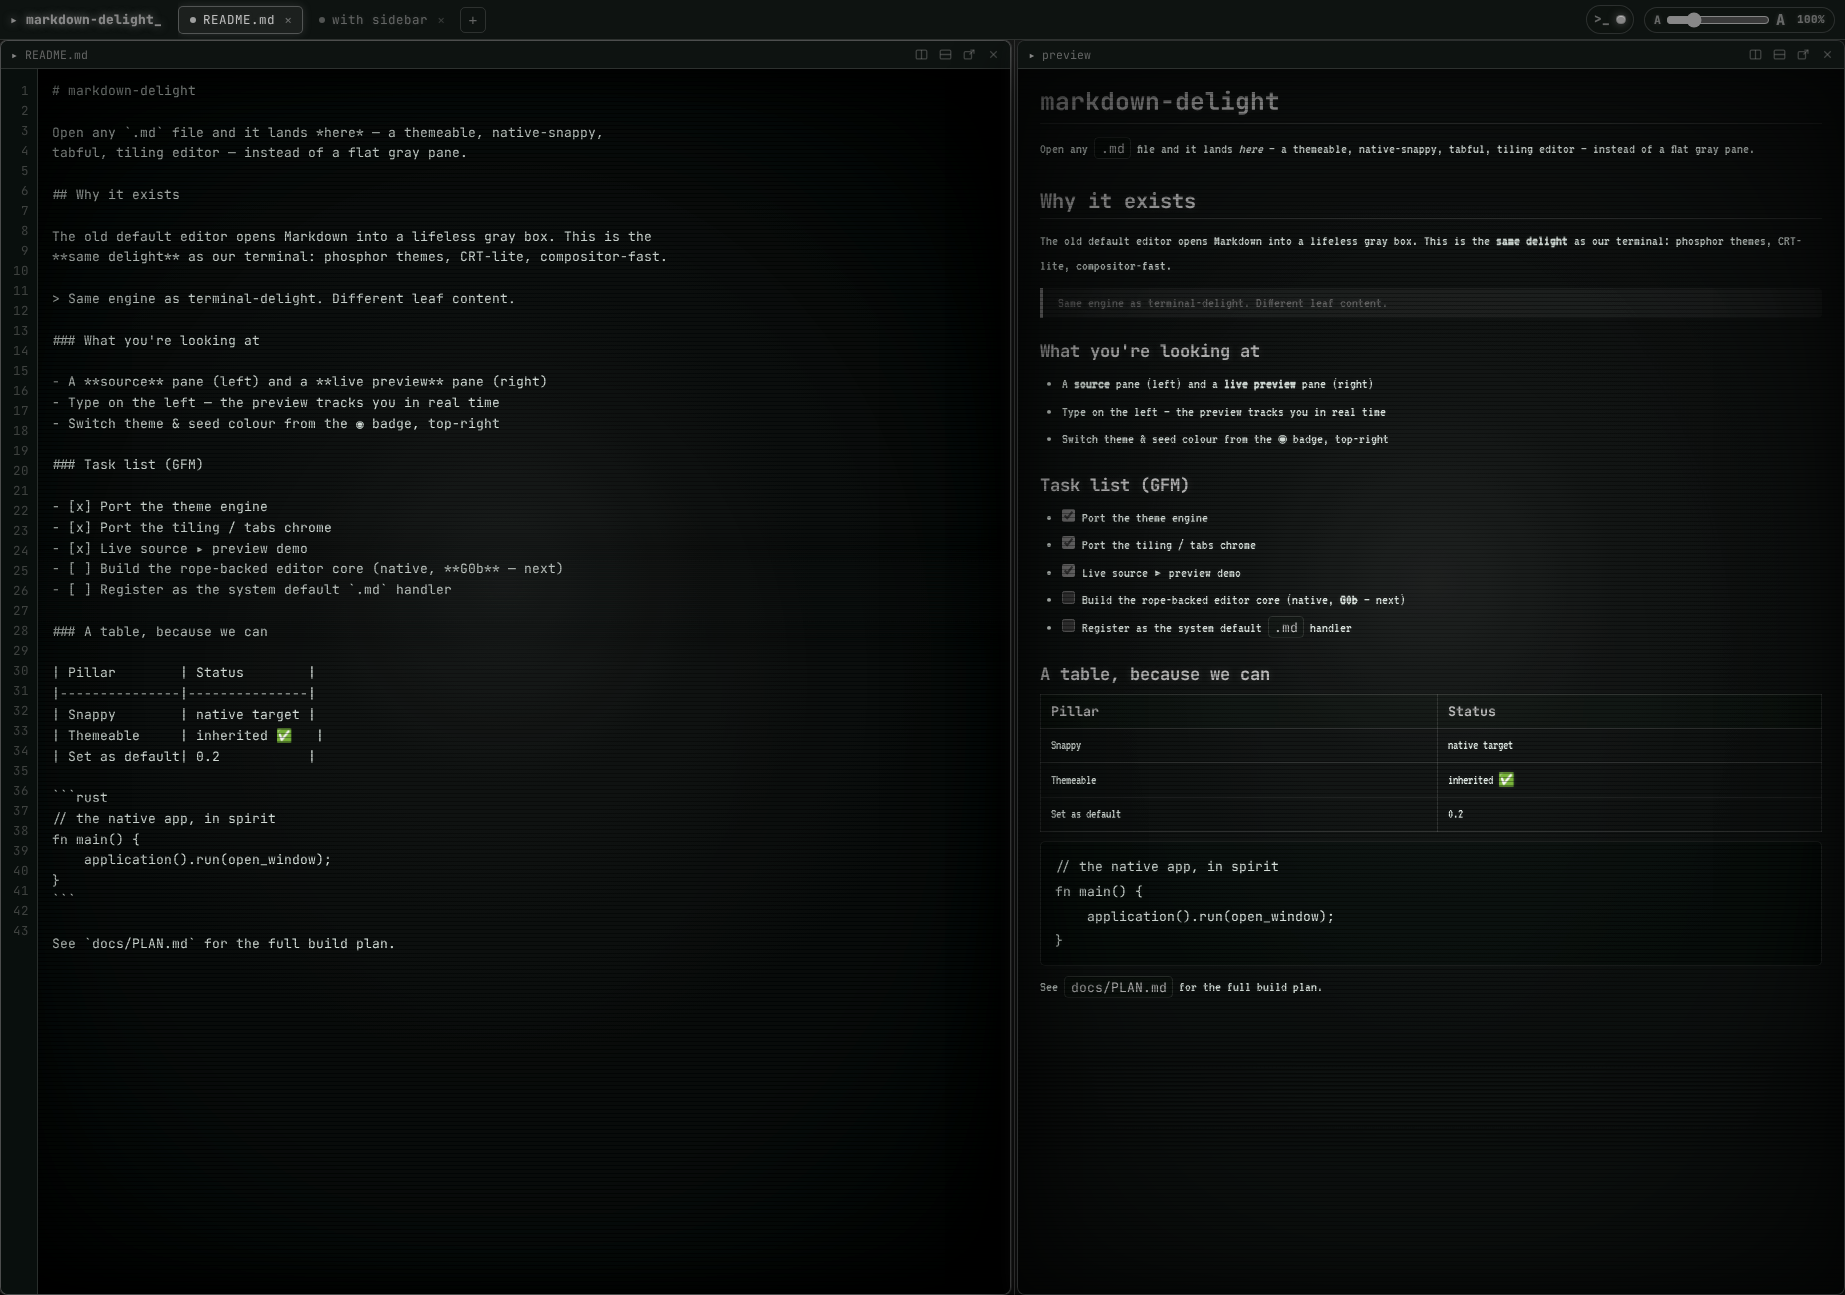
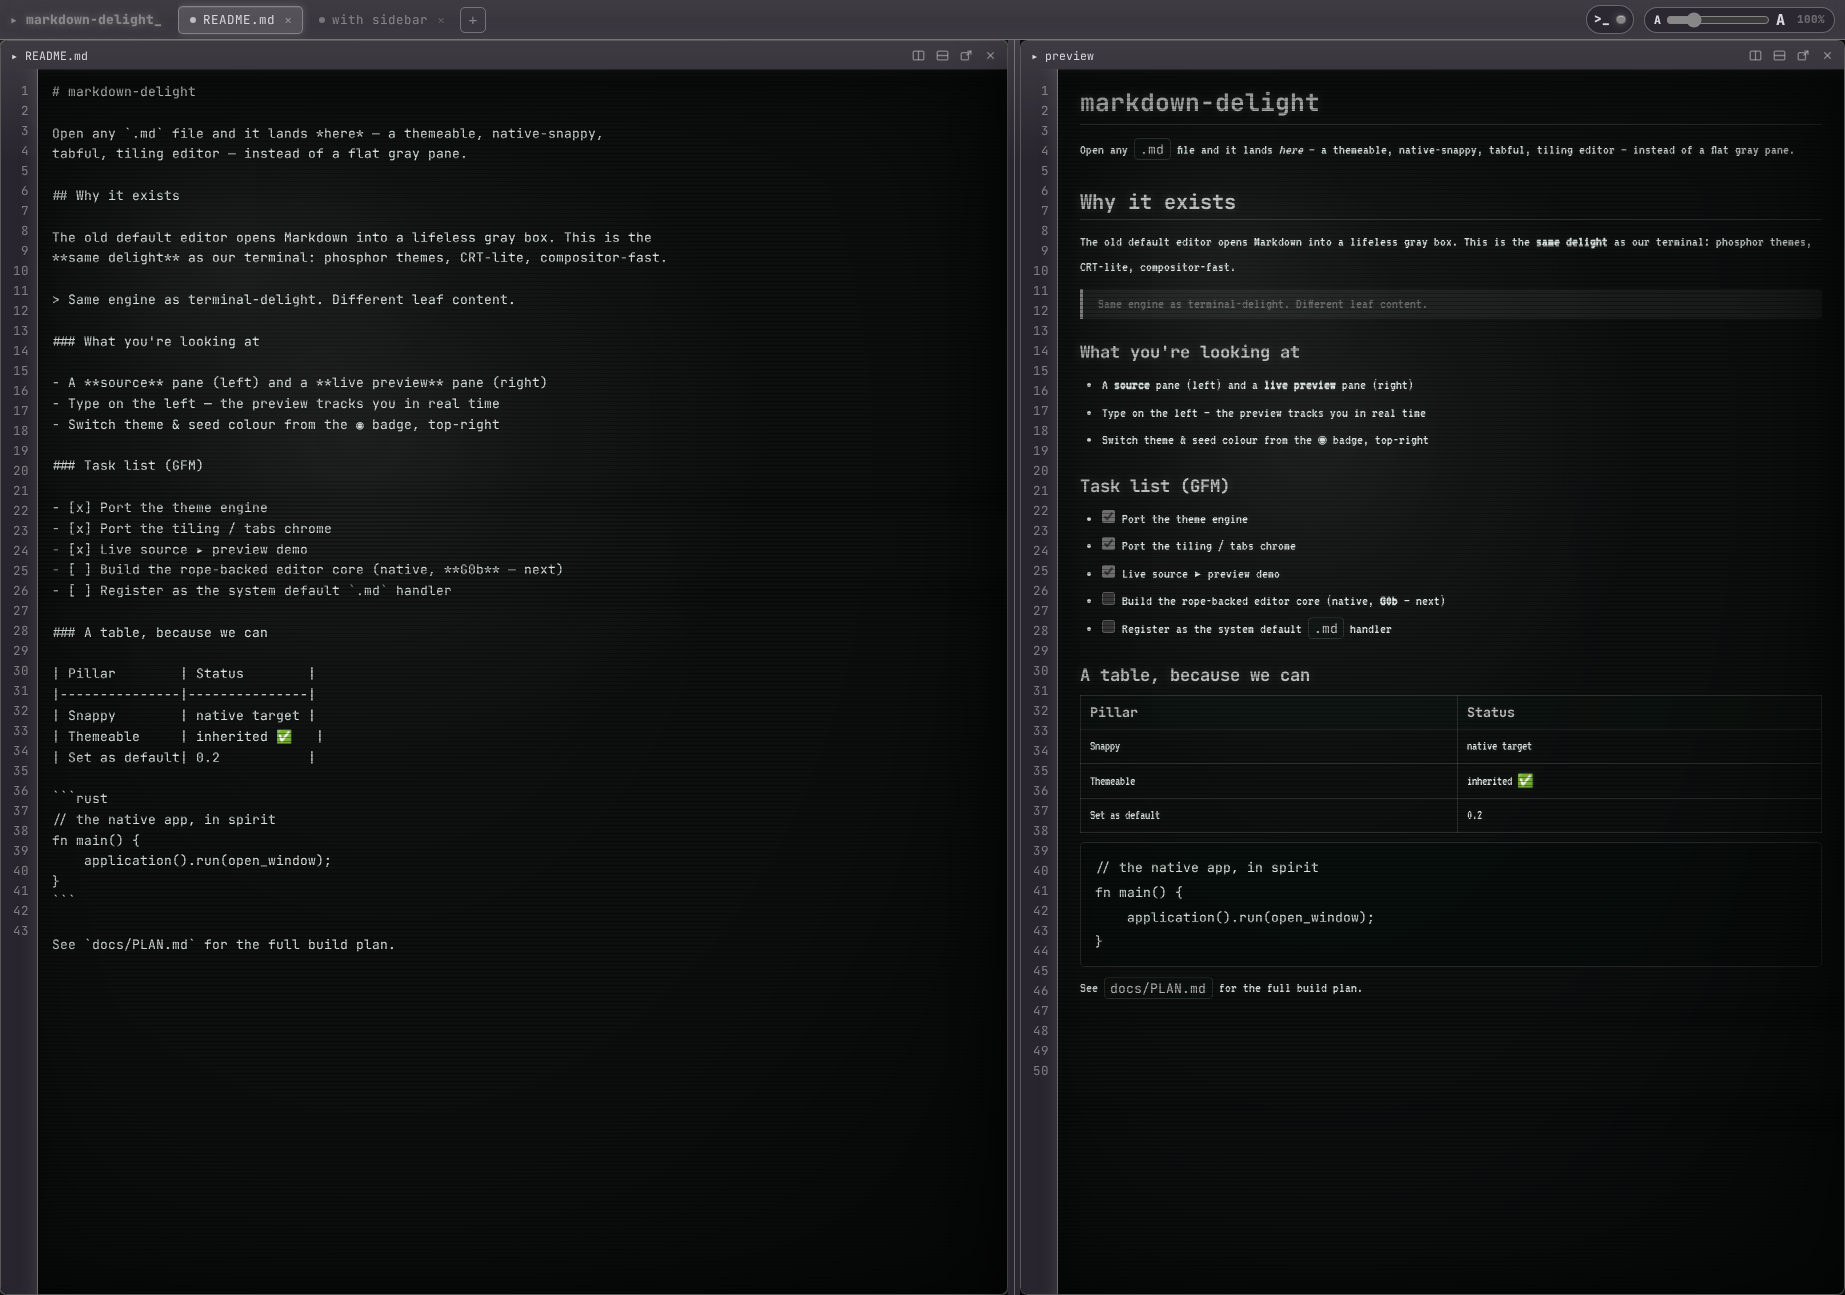
Mono palette: shell derives much lighter than the tube (vintage console)
Root cause of the 'still not connected' loop finally found by capturing
Parker's actual browser window: his tab carried the persisted #878787 mono
seed, where the complement (which drives the shell) derived to nearly the
SAME grey as the tube — no housing/screen separation for the lighting to
act on. My fresh-profile probes always loaded the green/purple default, so
every fix verified clean here while his window never changed. (His tab was
also one deploy stale.)

Mono complement now derives at +42 lightness: dark glass, light grey
housing — the classic mono-terminal pairing. Colour seeds unchanged.

diff --git a/src/js/theme-engine.js b/src/js/theme-engine.js
@@ -87,7 +87,9 @@ function derivePalette(hex) {
     const l = Math.max(30, Math.min(80, hsl.l));
     const grey = (lt) => toHex(hslToRgb({ h: 0, s: 0, l: Math.max(4, Math.min(96, lt)) }));
     const g = (lt) => { const h = grey(lt); return { hex: h, rgb: hexToRgb(h) }; };
-    const accent = g(l), strong = g(l + 22), complement = g(l + 14), field = g(l - 4), warm = g(l + 8);
+    /* complement drives the SHELL — in mono make it much lighter than the
+       tube so the housing separates like a vintage light-grey console */
+    const accent = g(l), strong = g(l + 22), complement = g(Math.min(86, l + 42)), field = g(l - 4), warm = g(l + 8);
     return {
       accent: accent.hex, accentRgb: accent.rgb,
       strong: strong.hex,